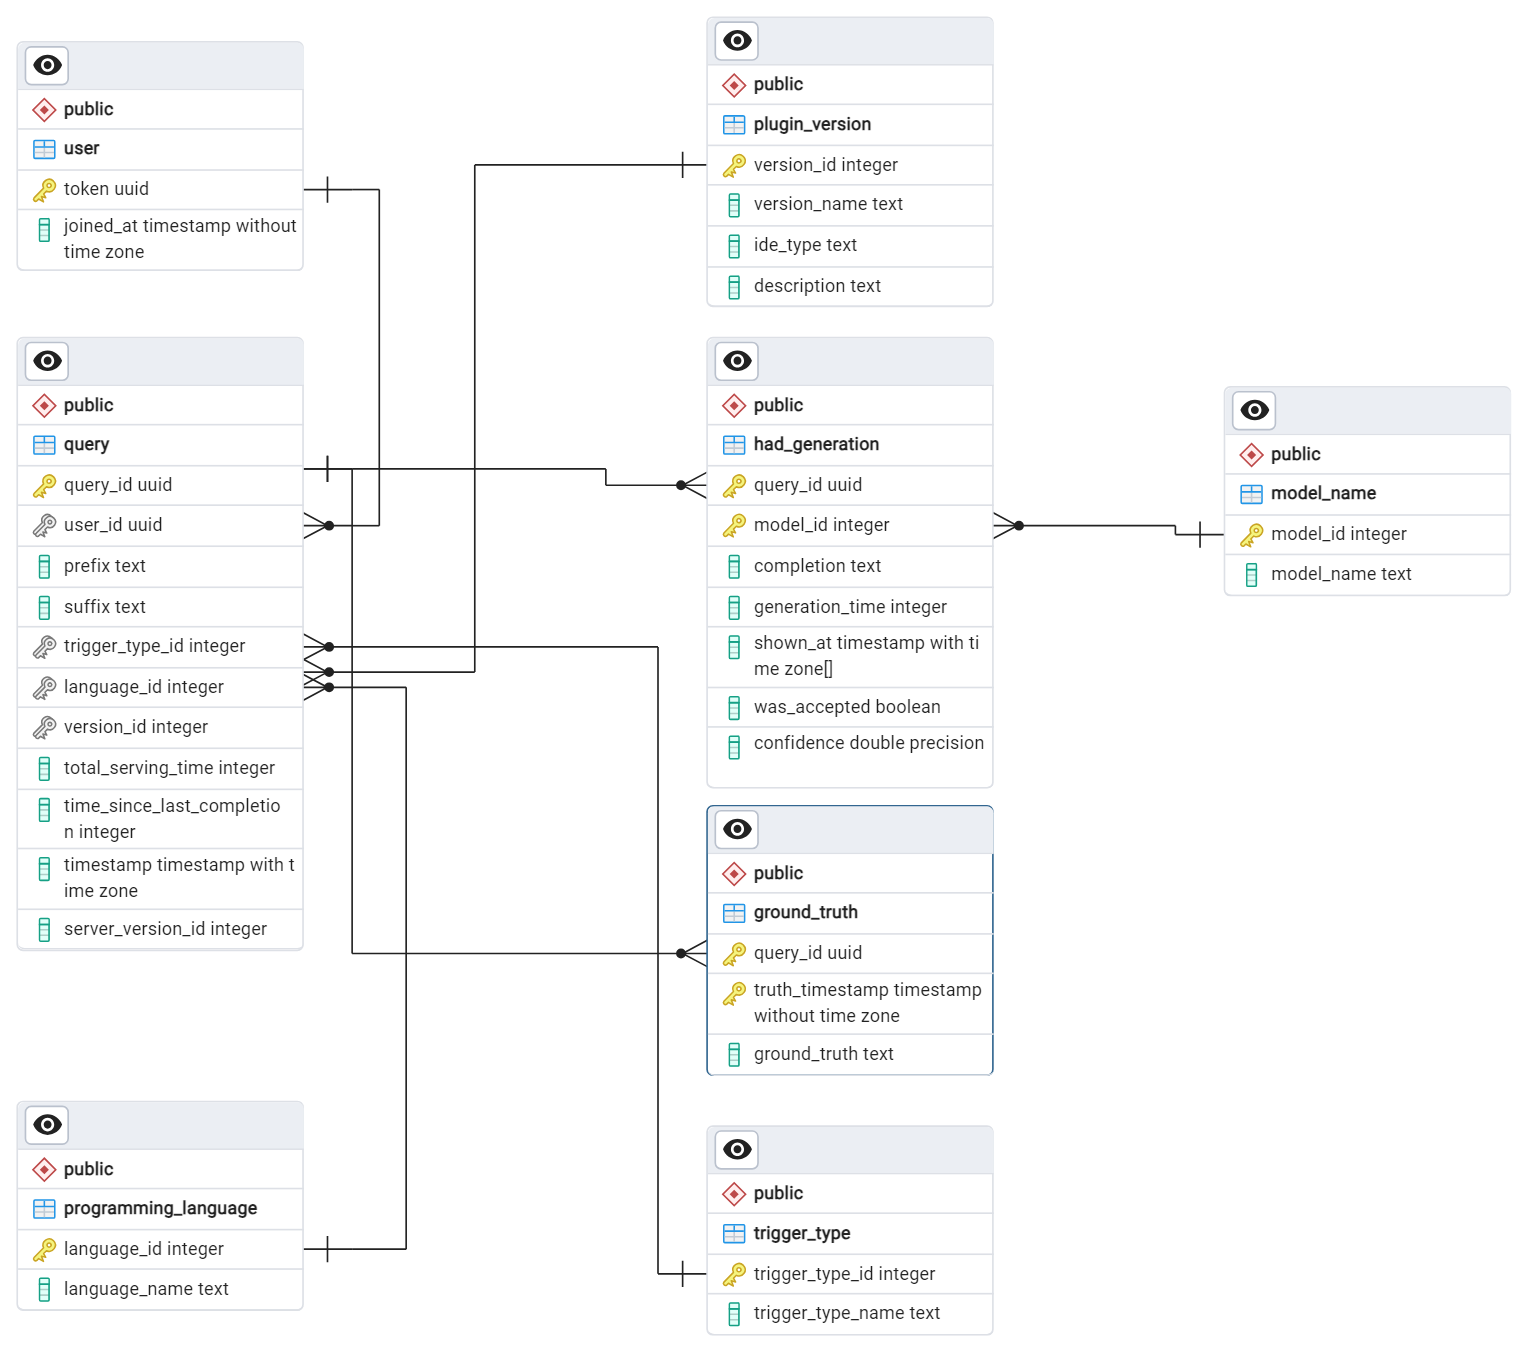
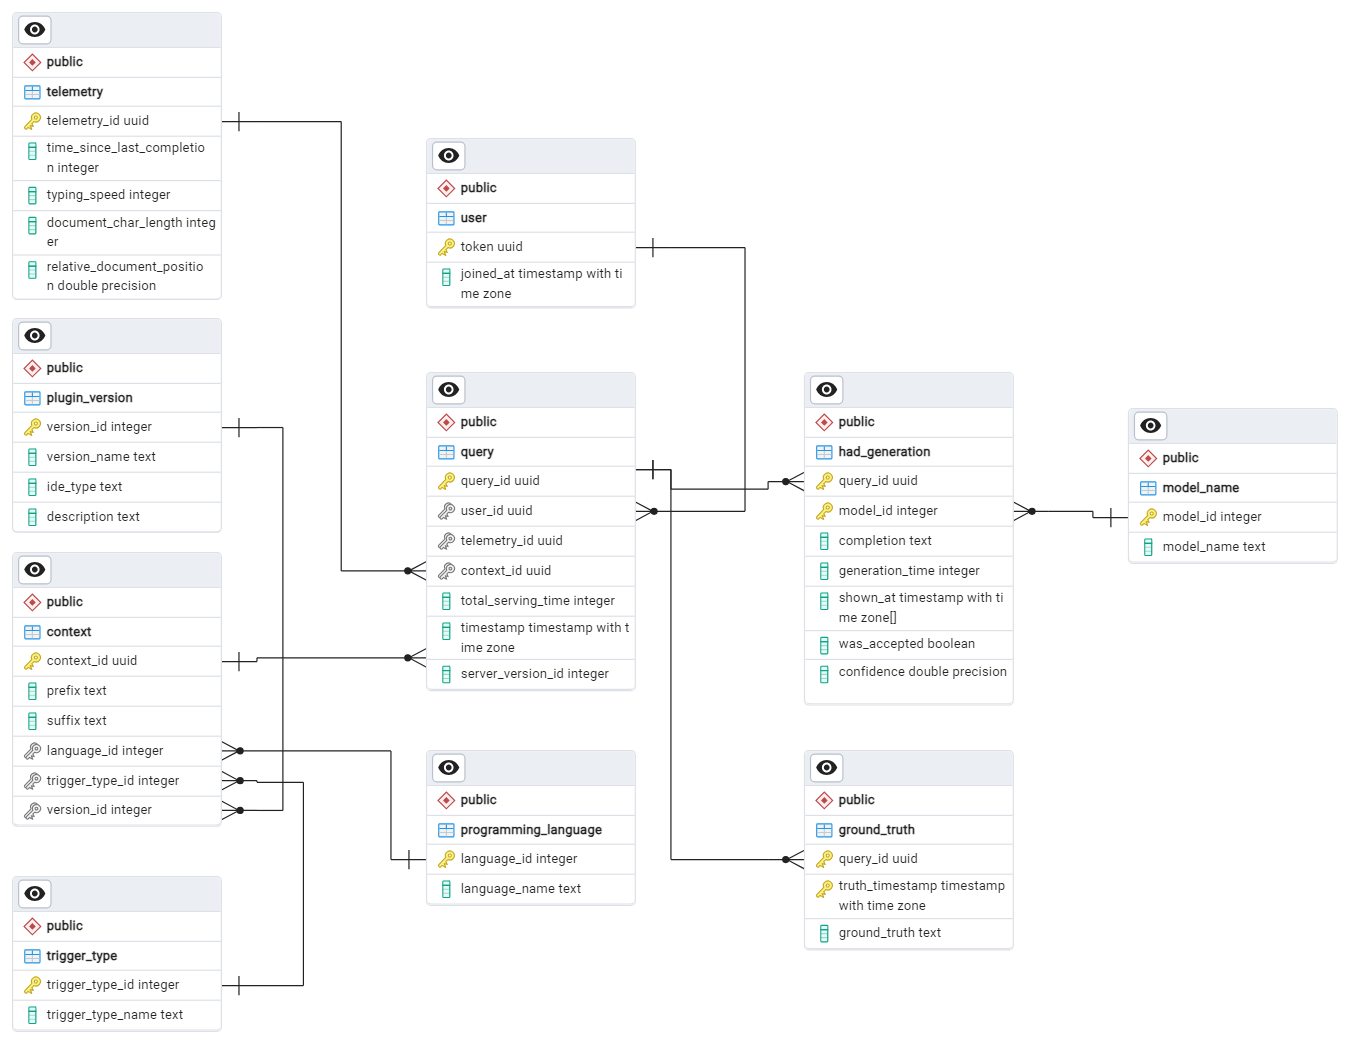
finalized aspects of the database which hopefully future-proof the design for at least the foreseeable future.

diff --git a/server/database/readme.md b/server/database/readme.md
@@ -5,69 +5,85 @@
 ```mermaid
 erDiagram
     USER {
-        UUID token PK
-        TIMESTAMP joined_at
+        uuid token PK
+        timestamp joined_at
     }
-
+    
     QUERY {
-        UUID query_id PK
-        UUID user_id FK
-        TEXT prefix
-        TEXT suffix
-        INTEGER trigger_type_id FK
-        INTEGER language_id FK
-        INTEGER version_id FK
-        INTEGER total_serving_time
-        INTEGER time_since_last_completion
-        TIMESTAMP query_timestamp
-        INTEGER server_version_id
+        uuid query_id PK
+        uuid user_id
+        uuid telemetry_id
+        uuid context_id
+        int total_serving_time
+        timestamp timestamp
+        int server_version_id
     }
-
+    
     MODEL_NAME {
-        INTEGER model_id PK
-        TEXT model_name
+        int model_id PK
+        text model_name
     }
-
+    
     PLUGIN_VERSION {
-        INTEGER version_id PK
-        TEXT version_name
-        TEXT ide_type
-        TEXT description
+        int version_id PK
+        text version_name
+        text ide_type
+        text description
     }
-
+    
     TRIGGER_TYPE {
-        INTEGER trigger_type_id PK
-        TEXT trigger_type_name
+        int trigger_type_id PK
+        text trigger_type_name
     }
-
+    
     PROGRAMMING_LANGUAGE {
-        INTEGER language_id PK
-        TEXT language_name
+        int language_id PK
+        text language_name
     }
-
+    
     HAD_GENERATION {
-        UUID query_id FK
-        INTEGER model_id FK
-        TEXT completion
-        INTEGER generation_time
-        TIMESTAMP[] shown_at
-        BOOLEAN was_accepted
-        DOUBLE confidence
+        uuid query_id PK
+        int model_id PK
+        text completion
+        int generation_time
+        timestamp[] shown_at
+        boolean was_accepted
+        double confidence
     }
-
+    
     GROUND_TRUTH {
-        UUID query_id FK
-        TIMESTAMP truth_timestamp PK
-        TEXT ground_truth
+        uuid query_id PK
+        timestamp truth_timestamp PK
+        text ground_truth
     }
-
+    
+    CONTEXT {
+        uuid context_id PK
+        text prefix
+        text suffix
+        int language_id
+        int trigger_type_id
+        int version_id
+    }
+    
+    TELEMETRY {
+        uuid telemetry_id PK
+        int time_since_last_completion
+        int typing_speed
+        int document_char_length
+        double relative_document_position
+    }
+    
     USER ||--o{ QUERY : has
-    QUERY ||--o{ HAD_GENERATION : triggers
-    QUERY ||--o{ GROUND_TRUTH : has
-    QUERY }o--|| PLUGIN_VERSION : uses
-    QUERY }o--|| TRIGGER_TYPE : was_triggered_by
-    QUERY }o--|| PROGRAMMING_LANGUAGE : programs_in
-    HAD_GENERATION }o--|| MODEL_NAME : utilizes
+    QUERY ||--o{ HAD_GENERATION : generates
+    QUERY ||--o{ GROUND_TRUTH : having
+    QUERY }o--|| TELEMETRY : uses
+    QUERY }o--|| CONTEXT : bound_by
+    CONTEXT }o--|| PROGRAMMING_LANGUAGE : written_in
+    CONTEXT }o--|| TRIGGER_TYPE : triggered_by
+    CONTEXT }o--|| PLUGIN_VERSION : using
+    HAD_GENERATION }o--|| MODEL_NAME : using
+
 
 ```
 
@@ -106,38 +122,36 @@ The programming languages are used to determine the language in which the code i
 This table contains the list of all the models that are available.
 The models are used to determine the model that is used to generate the code.
 
-- &rarr;**`model_id: INTEGER`** Unique identifier for the model, **Primary Key**.
+- **`model_id: INTEGER`** Unique identifier for the model, **Primary Key**.
 - `model_name: TEXT` Name of the model.
 
 ### `query`
 This table contains the list of all the generations that have been requested.
-This table contains only the metadata of the generation request and not the actual code that has been generated.
+This table is the central table in the database and contains all the metadata related to the generation request.
 
 ###### Computed Server-Side
 
 - **`query_id: UUID`** for the generation request, **Primary Key**.
 - `total_serving_time: INTEGER` total request processing time, in milliseconds.
 - `query_timestamp: TIMESTAMP` timestamp at which the query was made.
-- `time_since_last_completion` time since the last completion that was accepted by the user.
+- `telemetry_id: UUID` &rarr; [`telemetry`](#telemetry) ID for the telemetry used.
+- `context_id: UUID` &rarr; [`context`](#context) ID for the context used.
+- `server_version_id: INTEGER` &rarr; [`version_id`](#version_id) ID for the server version used.
 
 
 ###### Computed Client-Side
 
 - `user_id: UUID` &rarr; [`user`](#user) who requested the generation.
-- `prefix_text: TEXT` before the cursor.
-- `suffix_text: TEXT` after the cursor.
-- `trigger_type_id: INTEGER` &rarr; [`trigger_type`](#trigger_type) ID for the trigger type used.
-- `language_id: INTEGER` &rarr; [`programming_language`](#programming_language) ID for the programming language used.
-- `version_id: INTEGER` &rarr; [`version_id`](#version_id) ID for the version of the plugin used.
+- `timestamp: TIMESTAMP` timestamp at which the query was made.
 
-### `generation`
+### `had_generation`
 
 This table contains all the completions that have been generated; the actual code as well as generation-related metadata. 
 
 ###### Computed Server-Side
-- **`request_id: UUID`** &rarr; [`generation`](#generation) Unique identifier for the generation request, **Primary Key**. 
+- **`query_id: UUID`** &rarr; [`query`](#query) Unique identifier for the query, **Primary Key**. 
 - **`model_id: INTEGER`** &rarr; [`model_name`](#model_name) ID for the model used, **Primary Key**.
-- `completion_text: TEXT` The code that has been generated.
+- `completion: TEXT` The code that has been generated.
 - `generation_time: INTEGER` Time taken to generate the code, in milliseconds.
 - `confidence: FLOAT` Confidence of the model in the generated code.
 
@@ -153,6 +167,27 @@ The ground truth is the code that the user was actually looking for when they re
 - **`query_id: UUID`** &rarr; [`query`](#query) Unique identifier for the generation request, **Primary Key**.
 - **`truth_timestamp: TIMESTAMP`** Timestamp at which the ground truth was provided, **Primary Key**.
 - `ground_truth_text: TEXT` The code that the user was actually looking for.
+
+### `context`
+
+This table contains the context for the generation request.
+
+- **`context_id: UUID`** Unique identifier for the context, **Primary Key**.
+- `prefix: TEXT` The code that comes before the cursor position.
+- `suffix: TEXT` The code that comes after the cursor position.
+- `language_id: INTEGER` &rarr; [`programming_language`](#programming_language) ID for the language used.
+- `trigger_type_id: INTEGER` &rarr; [`trigger_type`](#trigger_type) ID for the trigger type used.
+- `version_id: INTEGER` &rarr; [`version_id`](#version_id) ID for the version used.
+
+### `telemetry`
+
+This table contains the telemetry data for the generation request.
+
+- **`telemetry_id: UUID`** Unique identifier for the telemetry data, **Primary Key**.
+- `time_since_last_completion: INTEGER` Time since the last completion, in milliseconds.
+- `typing_speed: INTEGER` Typing speed of the user at the time of the request.
+- `document_char_length: INTEGER` Length of the document.
+- `relative_document_position: DOUBLE` Relative position of the cursor in the document.
 
 ## General Notes
 - The database has been designed in a way to enable modularity and scalability.
